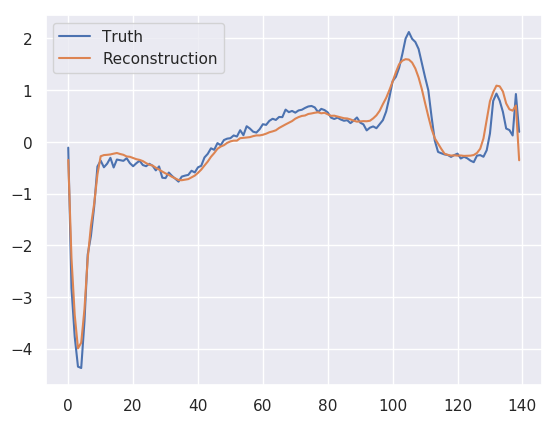
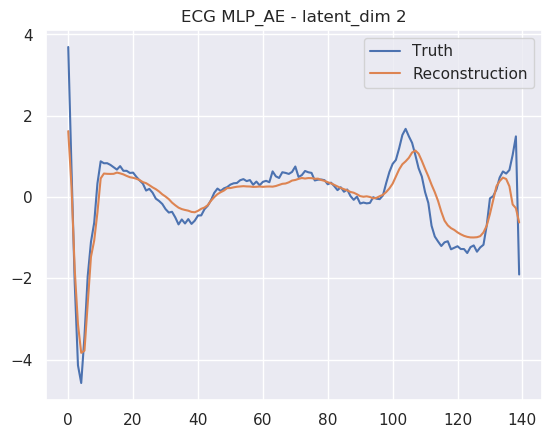
Update readme

diff --git a/README.md b/README.md
@@ -1,2 +1,37 @@
 # deep-aion
+
 This project gathers different deep learning models for time series (classification, anomaly detection, generation...)
+
+## Getting Started
+
+### Prerequisites
+
+* python3,
+* pytorch,
+* Numpy, pandas, matplotlib, seaborn.
+
+## Models
+
+The [models.py](models.py) file contains all the implemented models. Here is the list:
+
+* MLP_AE: A multi layer perceptron autoencoder.
+
+## Data
+
+* ECG5000
+
+## Running the tests
+
+Python script [run.py](run.py).
+
+```bash
+python run.py
+```
+
+## Results
+
+### ECG5000
+
+#### MLP_AE
+
+![reconstruction](img/reconstruction.png)
